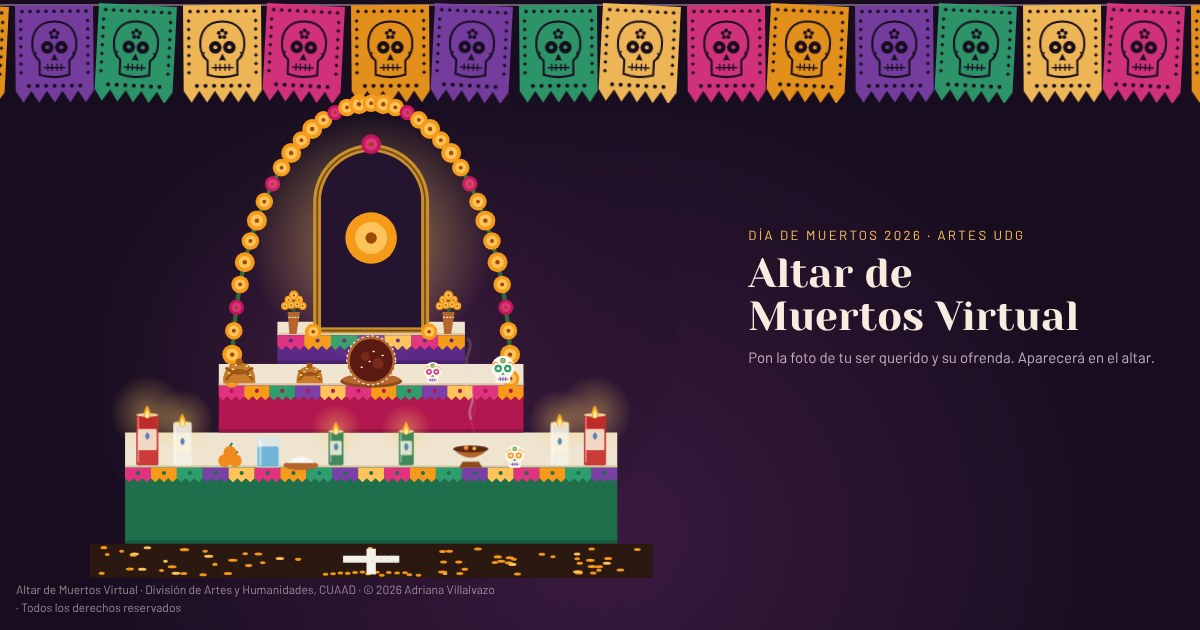
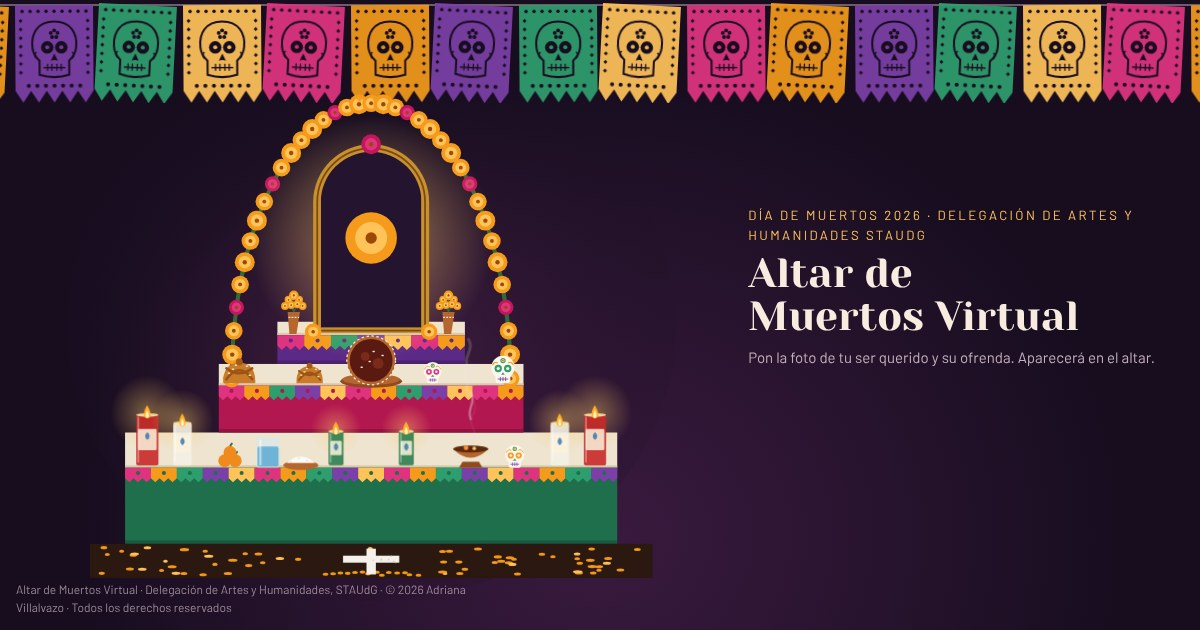
Créditos: Delegación de Artes y Humanidades, STAUdG
Claude-Session: https://claude.ai/code/session_014oW4pvzmT9xmFxHaHHqwgG

Changed region(s): [[0.6167, 0.3317, 0.9558, 0.3921], [0.1233, 0.9048, 0.4008, 0.9952], [0.0308, 0.9651, 0.0925, 0.9952]]

diff --git a/index.html b/index.html
@@ -6,8 +6,8 @@
 <title>Altar de Muertos Virtual</title>
 <meta name="description" content="Altar de Muertos Virtual: pon la foto de tu ser querido y su ofrenda, y aparecerá en el altar proyectado.">
 <meta property="og:type" content="website">
-<meta property="og:title" content="Altar de Muertos Virtual · Artes UdG">
-<meta property="og:description" content="Pon la foto de tu ser querido y su ofrenda. Aparecerá en el altar. División de Artes y Humanidades, CUAAD.">
+<meta property="og:title" content="Altar de Muertos Virtual · Delegación de Artes y Humanidades STAUdG">
+<meta property="og:description" content="Pon la foto de tu ser querido y su ofrenda. Aparecerá en el altar. Delegación de Artes y Humanidades, STAUdG.">
 <meta property="og:url" content="https://adrianavillalvazo-gif.github.io/altar-de-muertos/">
 <meta property="og:image" content="https://adrianavillalvazo-gif.github.io/altar-de-muertos/compartir.jpg">
 <meta property="og:image:width" content="1200">
@@ -280,7 +280,7 @@ textarea{resize:vertical;min-height:84px}
       </section>
     </div>
     <footer class="creditos">
-      <p><strong>Altar de Muertos Virtual</strong> · Idea y creación: Adriana Villalvazo · División de Artes y Humanidades, CUAAD, Universidad de Guadalajara · 2026</p>
+      <p><strong>Altar de Muertos Virtual</strong> · Idea y creación: Adriana Villalvazo · Delegación de Artes y Humanidades, STAUdG · 2026</p>
       <p>© 2026 Adriana Villalvazo. Todos los derechos reservados. Uso reservado: prohibida su reproducción, copia o uso comercial sin autorización de la autora. Las fotos y textos de cada ofrenda pertenecen a quien los comparte. <a href="#ofrenda" id="ver-aviso" style="color:var(--cempa-claro)">Aviso de privacidad</a></p>
     </footer>
   </div>
@@ -300,7 +300,7 @@ textarea{resize:vertical;min-height:84px}
     <div class="fila"><h3>Turnos</h3><ol id="fila"></ol><p id="fila-vacia">Escanea el código, pon tu ofrenda y recibe tu turno.</p></div>
     <figure class="qr" id="qr"><div id="qr-codigo"></div><figcaption>Escanea con tu celular<br>y pon tu ofrenda</figcaption></figure>
   </div></div>
-  <p class="credito-altar">Altar de Muertos Virtual · División de Artes y Humanidades, CUAAD · © 2026 Adriana Villalvazo · Todos los derechos reservados</p>
+  <p class="credito-altar">Altar de Muertos Virtual · Delegación de Artes y Humanidades, STAUdG · © 2026 Adriana Villalvazo · Todos los derechos reservados</p>
 </section>
 
 <script src="https://cdnjs.cloudflare.com/ajax/libs/qrcodejs/1.0.0/qrcode.min.js"></script>

diff --git a/README.md b/README.md
@@ -1,6 +1,6 @@
 # Altar de Muertos Virtual (sitio propio)
 
-© 2026 Adriana Villalvazo · División de Artes y Humanidades, CUAAD, Universidad de Guadalajara. Todos los derechos reservados.
+© 2026 Adriana Villalvazo · Delegación de Artes y Humanidades, STAUdG. Todos los derechos reservados.
 
 - `index.html`: el altar completo. Al abrirlo se ve el formulario; con `#altar` al final de la dirección, la pasarela del proyector.
 - `config.js`: dirección y llave pública del proyecto de Supabase.
